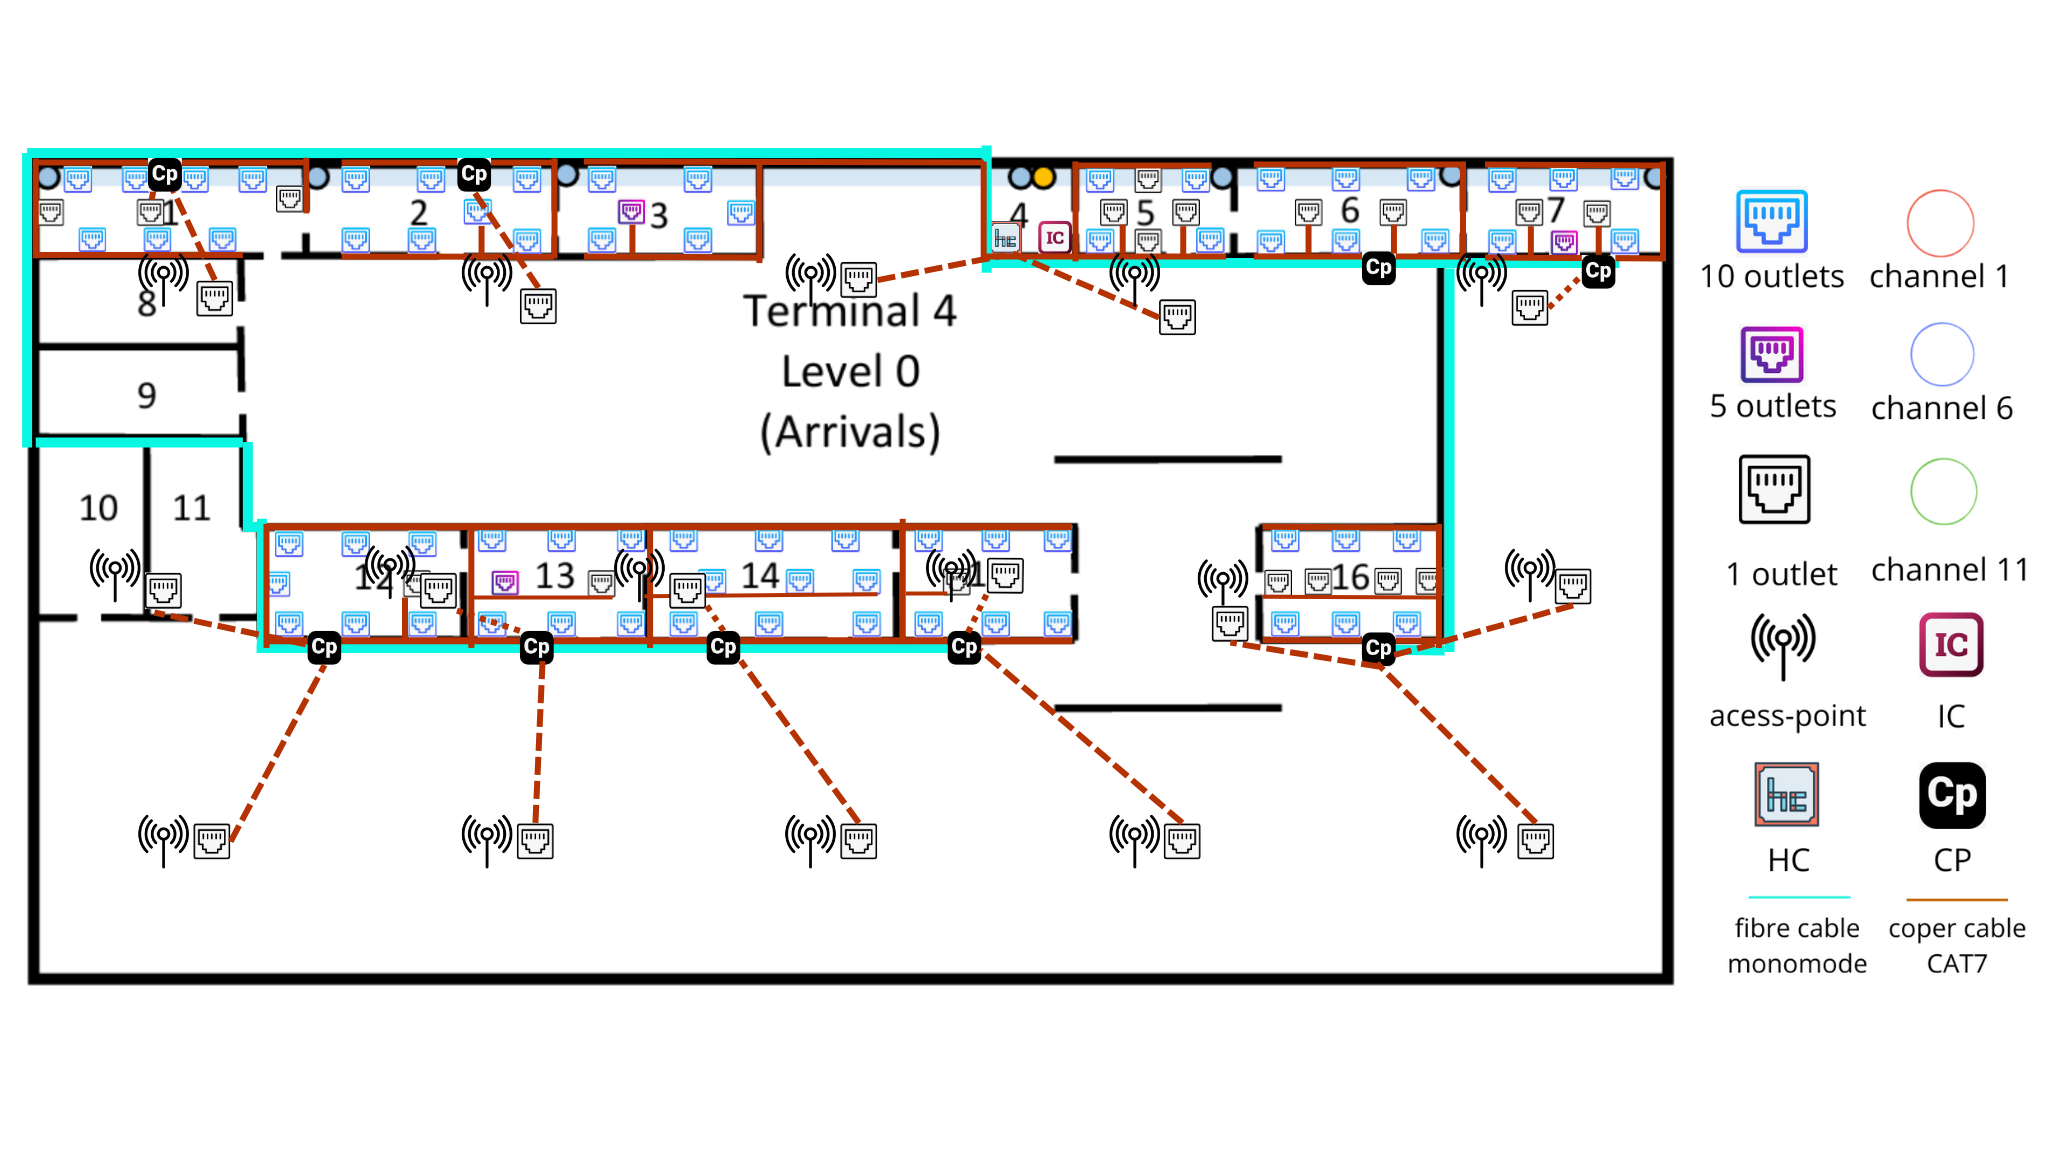
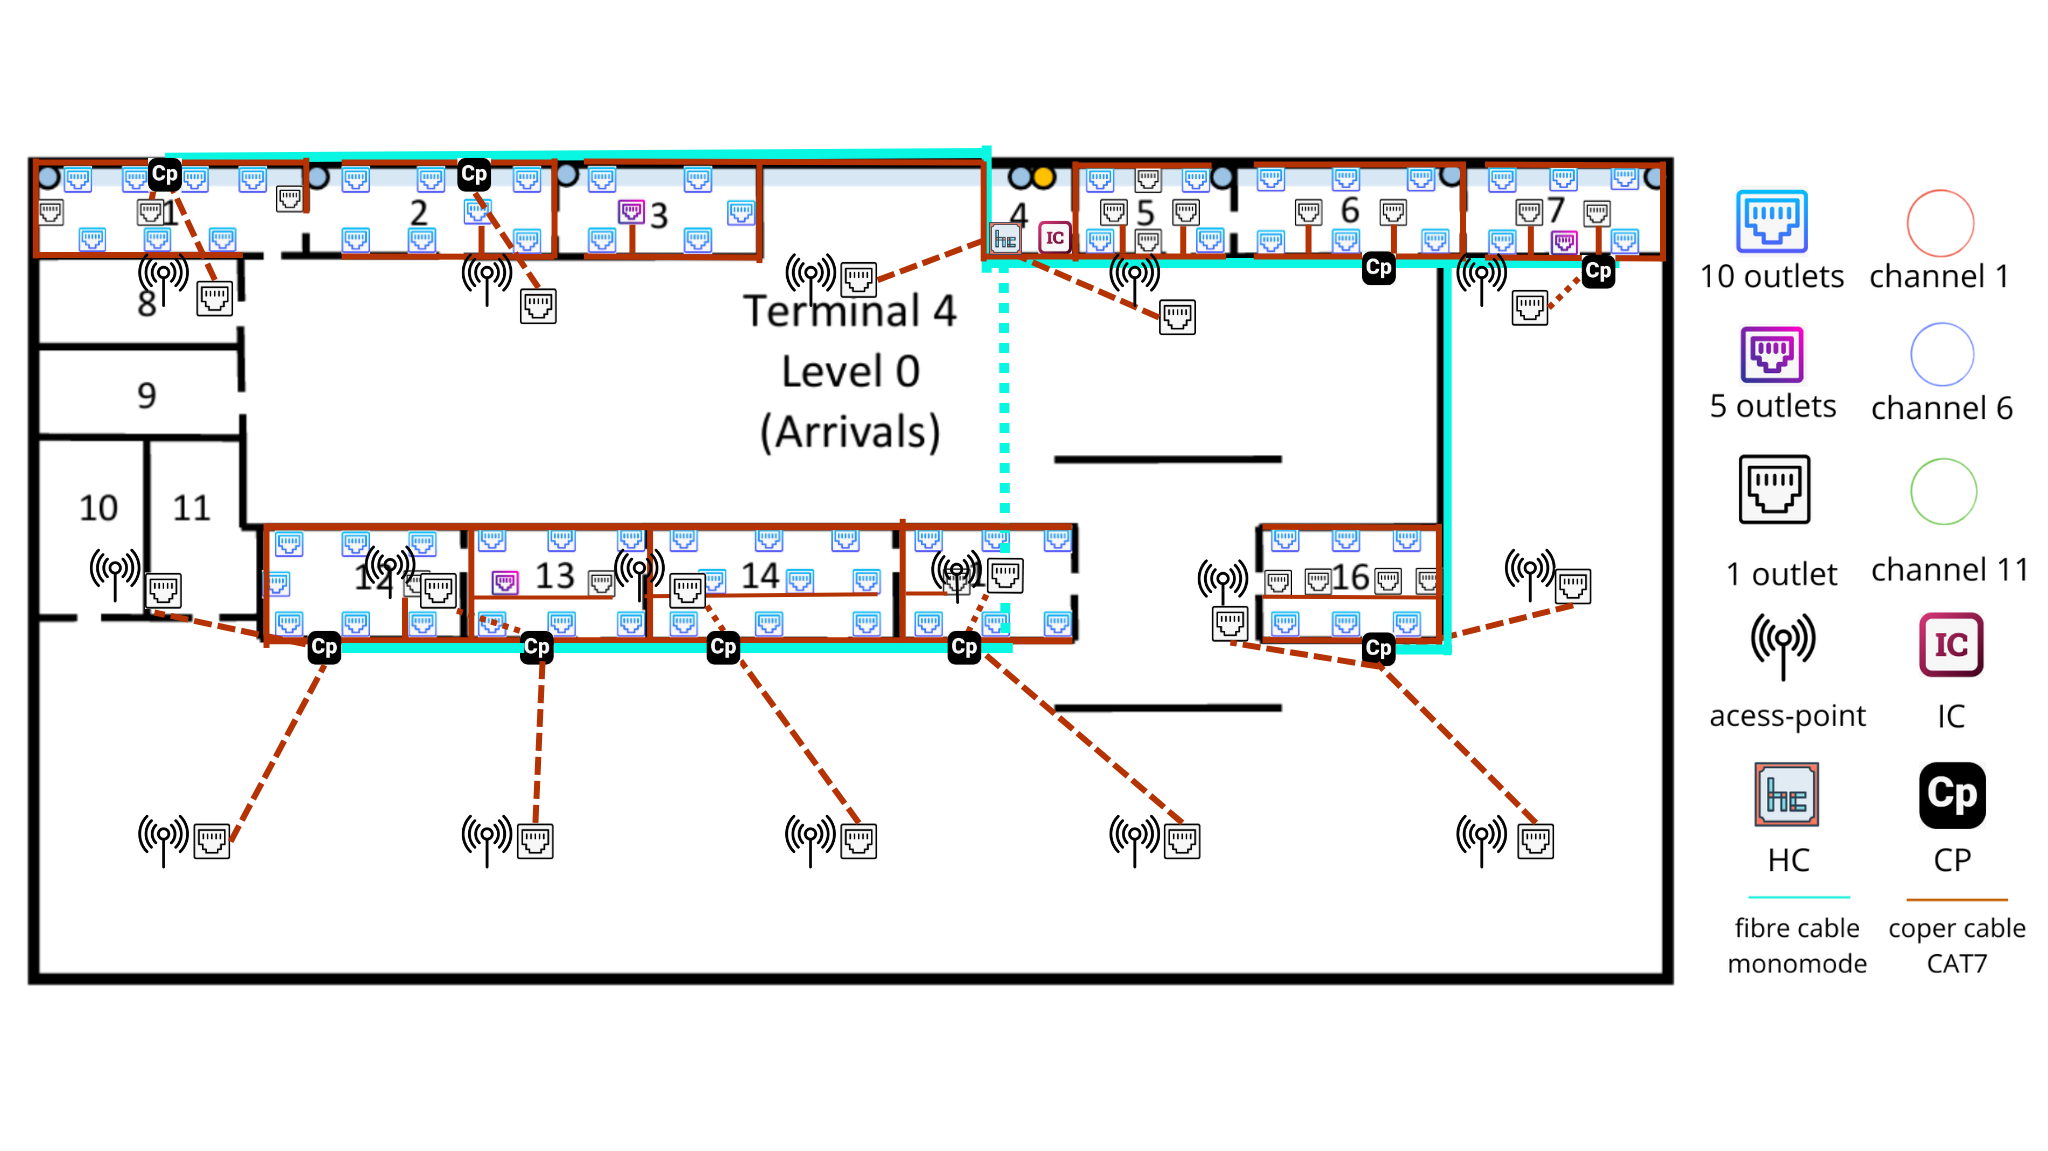
Update T1.4: updated cable connections and inventory

diff --git a/doc/sprint1/1240895/README.md b/doc/sprint1/1240895/README.md
@@ -53,6 +53,8 @@ Fórmula utilizada: Outlets = $\lceil \frac{\text{Área (m²)}}{10} \times 2 \rc
 
 ![Medidas do Level 0 - Arrivals](level0_arrivals/medidas_level0.png)
 
+- NOTA: As medidas na imagem estão em metros (m)
+
 
 | Sala | Medidas (cm)        | Dimensões Reais (m)      | Área (m²) | Outlets | Notas                  |
 | ---- | ------------------- | ------------------------- | ----------- | ------- | ---------------------- |
@@ -79,6 +81,7 @@ Fórmula utilizada: Outlets = $\lceil \frac{\text{Área (m²)}}{10} \times 2 \rc
 
 ![Medidas do Level 2 - Departures](level2_departures/medidas_level2.png)
 
+- NOTA: As medidas na imagem estão em metros (m)
 
 | Sala | Medidas (cm)        | Dimensões Reais (m)      | Área (m²) | Outlets | Notas               |
 | ---- | ------------------- | ------------------------- | ----------- | ------- | ------------------- |
@@ -104,11 +107,10 @@ Fórmula utilizada: Outlets = $\lceil \frac{\text{Área (m²)}}{10} \times 2 \rc
 | 20   | 1,35 x 0,7          | 21,77 x 11,29             | 245,80      | 50      |                     |
 | 21   | 1,35 x 0,7          | 21,77 x 11,29             | 245,80      | 50      |                     |
 
-**Total Outlets Piso 2 (Salas): 807**
+**Total Outlets Piso 2 (Salas): 757**
 
 ---
 
----
 
 ## 4. Tomadas nas Paredes Exteriores (Level 2)
 
@@ -140,7 +142,7 @@ Outlets = $\left\lceil \frac{\text{Comprimento útil da parede}}{5} \right\rceil
 
 ## 5. Pontos de Acesso Wireless (Wi-Fi)
 
-Ambos os pisos do Terminal 2 requerem cobertura de rede sem fios.
+Ambos os pisos do Terminal 4 requerem cobertura de rede sem fios.
 
 Cada Wireless Access Point (WAP) garante uma cobertura circular aproximada com **50 metros de diâmetro (25 metros de raio)**.
 
@@ -186,17 +188,24 @@ N_real ≈ **16 WAPs por piso**
 
 ### Posicionamento no teto falso
 
-#### Level 1 - Arrivals
+#### Level 0 - Arrivals
 
 ![Access Points do level 0 - Arrivals](level0_arrivals/level0_aps.png)
 
 **Nota**: Cada WAP requer uma **tomada de rede RJ45 (ISO 8877)** instalada no **teto falso**, localizado a 4 metros de altura.
 
-#### Level 4 - Departures
+#### Level 2 - Departures
 
 ![Access Points do level 2 - Departures](level2_departures/level2_aps.png)
 
 **Nota**: Cada WAP requer uma **tomada de rede RJ45 (ISO 8877)** instalada no **teto falso**, localizado a 4 metros de altura.
+
+### Atribuição de Canais Wi-Fi
+
+Na banda de 2,4 GHz do protocolo IEEE 802.11, existem apenas **três canais
+não sobrepostos: 1, 6 e 11**. Conforme abordado nas aulas laboratoriais (PL02),
+a utilização exclusiva destes três canais garante que células vizinhas não
+partilham frequências, eliminando interferências entre Access Points adjacentes.
 
 ---
 
@@ -239,7 +248,7 @@ Para alojar o IC, HC, equipamentos ativos (switches, UPS) e espaço de expansão
 
 ### Estratégia de Consolidation Points (CPs) – Level 0
 
-Devido às dimensões do piso (**aproximadamente 198 × 99 metros**) e à limitação de **90 metros de cabo horizontal em cobre**, foram implementados **Consolidation Points (CPs)** distribuídos pelo piso.
+Devido às dimensões do piso (**aproximadamente 200 × 100 metros**) e à limitação de **90 metros de cabo horizontal em cobre**, foram implementados **Consolidation Points (CPs)** distribuídos pelo piso.
 
 Os CPs permitem:
 - reduzir o número de cabos de cobre diretos ligados ao HC
@@ -329,9 +338,9 @@ Número de ligações: **73**
 | Patch Panel | Portas | Espaço |
 |---|---|---|
 | Patch Panel | 48 portas | 2U |
-| Patch Panel | 24 portas | 1U |
+| Patch Panel | 48 portas | 2U |
 
-Espaço total ocupado: **3U** → 4 × 3 = 12U → **rack de 12U**
+Espaço total ocupado: **4U** → 4 × 4 = 16U → **rack de 24U**
 
 ---
 
@@ -385,6 +394,7 @@ Número de ligações: **67**
 
 Espaço total ocupado: **3U** → 4 × 3 = 12U → **rack de 12U**
 
+---
 
 ### Level 2 – Departures
 
@@ -410,7 +420,7 @@ Espaço total ocupado: **1U** → 4 × 1 = 4U → **rack de 6U**
 
 ### Estratégia de Consolidation Points (CPs) – Level 2
 
-Devido às dimensões do piso (**aproximadamente 198 × 99 metros**) e à limitação de **90 metros de cabo horizontal em cobre**, foram implementados **Consolidation Points (CPs)** distribuídos estrategicamente pelo piso.
+Devido às dimensões do piso (**aproximadamente 200 × 100 metros**) e à limitação de **90 metros de cabo horizontal em cobre**, foram implementados **Consolidation Points (CPs)** distribuídos estrategicamente pelo piso.
 
 A ligação **HC → CP** é realizada por **fibra ótica OM4**. A ligação **CP → outlets** é realizada por **cabo de cobre CAT7** (máximo 90 metros).
 
@@ -696,12 +706,12 @@ Esta abordagem garante:
 
 ### Resumo Global de Racks – Terminal 4
 
-| Tamanho | Quantidade |
-|---------|-----------|
-| 6U  | 4 |
-| 12U | 14 |
-| 24U | 6 |
-| 42U | 1 |
+| Tamanho | Quantidade   |
+|---------|--------------|
+| 6U  | 4            |
+| 12U | 14           |
+| 24U | 6            |
+| 42U | 1            |
 | **Total** | **25 racks** |
 
 
@@ -732,10 +742,201 @@ Utilizada principalmente para alimentar:
 
 ## Nota Técnica
 
-Todas as ligações entre o **Intermediate Cross-Connect (IC)** localizado na **Sala 6** e os restantes **HCs e CPs remotos** são realizadas através de **fibra ótica monomodo**, constituindo o **backbone interno do edifício**.
+Todas as ligações entre o **Intermediate Cross-Connect (IC)** localizado na **Sala 4** e os CPs remotos são realizadas através de **fibra ótica monomodo**, constituindo o **backbone interno do edifício**.
 A distribuição final até às tomadas de utilizador é efetuada utilizando **cabos de cobre CAT7**, respeitando os limites de distância definidos pelas normas de cablagem estruturada.
 
 ---
 
+## 9. Inventário de Cabos e Equipamentos
 
+O inventário apresentado inclui todos os materiais necessários para a infraestrutura de cablagem estruturada do Terminal 4, abrangendo cablagem horizontal, backbone interno, terminações e armários de telecomunicações.
 
+---
+
+### 9.1. Cabo de Fibra Ótica OM4
+
+#### Backbone
+
+| Segmento | Comprimento |
+|----------|-------------|
+| HC – Sala 3 (L2) → IC – Sala 4 (L0) | 15 m |
+| **Subtotal backbone** | **15 m** |
+
+> **Nota:** A ligação entre o IC do Terminal 4 (Sala 4, Level 0) e o MC do campus é da responsabilidade da tarefa T.1.1 (Sprint Master). O IC do Terminal 4 está localizado na **Sala 4, Level 0**.
+
+#### HC → CPs – Level 0
+
+| Segmento | Comprimento |
+|----------|-------------|
+| HC → CP Sala 2 | 61,3 m |
+| HC → CP Sala 1 | 108,1 m |
+| HC → CP Sala 12 | 125,8 m |
+| HC → CP Sala 13 | 101,6 m |
+| HC → CP Sala 14 | 80,6 m |
+| HC → CP Sala 15 | 50,0 m |
+| HC → CP Sala 6 | 46,8 m |
+| HC → CP Sala 7 | 74,2 m |
+| HC → CP Sala 16 | 104,8 m |
+| **Subtotal HC→CPs L0** | **753,2 m** |
+
+#### HC → CPs – Level 2
+
+| Segmento | Comprimento |
+|----------|-------------|
+| HC → CP Sala 5 | 40,3 m |
+| HC → CP1 (Salas 7+9) | 75,8 m |
+| HC → CP2 (Sala 21) | 116,1 m |
+| HC → CP Parede Direita | 117,7 m |
+| HC → CP Parede Inferior 1 | 145,2 m |
+| HC → CP Sala 2 | 74,2 m |
+| HC → CP Sala 1 | 112,9 m |
+| HC → CP1 (Salas 12+13) | 96,8 m |
+| HC → CP2 (Salas 14+15) | 61,3 m |
+| HC → CP3 (Salas 16+20) | 32,3 m |
+| HC → CP4 (Sala 17) | 121,0 m |
+| HC → CP5 (Sala 18) | 104,8 m |
+| HC → CP6 (Sala 19) | 64,5 m |
+| HC → CP Parede Inferior 2 | 169,4 m |
+| **Subtotal HC→CPs L2** | **1.332,3 m** |
+
+| | **TOTAL Fibra OM4** | **2.100,5 m** |
+|---|---|---|
+
+---
+
+### 9.2. Cabo de Cobre CAT7 U/UTP LSZH
+
+O comprimento total de cabo por sala foi estimado com base na distância mínima e máxima medida na planta entre o CP e as tomadas dessa sala, aplicando a seguinte fórmula:
+
+$$\bar{d} = \frac{d_{min} + d_{max}}{2} \qquad \Rightarrow \qquad L_{total} = \bar{d} \times n_{outlets}$$
+
+> **Nota sobre os Access Points:** Para os APs não foi aplicada esta fórmula de estimativa, uma vez que cada AP tem uma localização fixa e específica no teto falso. O comprimento de cada cabo foi medido individualmente na planta desde o CP até à tomada do respetivo AP.
+
+#### Level 0 – Arrivals
+
+| Sala | Dist. mín. | Dist. máx. | Média | Outlets | Total |
+|------|-----------|-----------|-------|---------|-------|
+| Sala 1  | 3,2 m  | 48,4 m | 25,8 m | 74  | 1.909 m |
+| Sala 2  | 3,2 m  | 40,3 m | 21,8 m | 71  | 1.548 m |
+| Sala 3 *(direto HC)* | 40,3 m | 64,5 m | 52,4 m | 55 | 2.882 m |
+| Sala 5 *(direto HC)* | 11,3 m | 32,3 m | 21,8 m | 44 | 959 m |
+| Sala 6  | 3,2 m  | 40,3 m | 21,8 m | 62  | 1.352 m |
+| Sala 7  | 1,6 m  | 35,5 m | 18,5 m | 58  | 1.073 m |
+| Sala 12 | 3,2 m  | 43,5 m | 23,4 m | 73  | 1.708 m |
+| Sala 13 | 1,6 m  | 37,1 m | 19,4 m | 68  | 1.319 m |
+| Sala 14 | 3,2 m  | 45,2 m | 24,2 m | 91  | 2.202 m |
+| Sala 15 | 3,2 m  | 40,3 m | 21,8 m | 63  | 1.373 m |
+| Sala 16 | 3,2 m  | 40,3 m | 21,8 m | 67  | 1.461 m |
+| APs L0  | — | — | — | 16 | 287 m |
+| **Subtotal L0** | | | | **729** | **18.073 m** |
+
+#### Level 2 – Departures
+
+| Sala | Dist. mín. | Dist. máx. | Média | Outlets | Total |
+|------|-----------|-----------|-------|---------|-------|
+| Sala 1  | 2,4 m  | 48,4 m | 25,4 m | 74  | 1.880 m |
+| Sala 2  | 2,4 m  | 48,4 m | 25,4 m | 71  | 1.803 m |
+| Sala 4 *(direto HC)* | 1,6 m | 19,4 m | 10,5 m | 44 | 462 m |
+| Sala 5  | 2,4 m  | 40,3 m | 21,4 m | 55  | 1.177 m |
+| Sala 7  | 1,6 m  | 25,8 m | 13,7 m | 37  | 507 m |
+| Sala 9  | 1,6 m  | 25,8 m | 13,7 m | 37  | 507 m |
+| Sala 12 | 2,4 m  | 27,4 m | 14,9 m | 40  | 596 m |
+| Sala 13 | 2,4 m  | 24,2 m | 13,3 m | 27  | 359 m |
+| Sala 14 | 2,4 m  | 25,8 m | 14,1 m | 32  | 451 m |
+| Sala 15 | 2,4 m  | 25,8 m | 14,1 m | 32  | 451 m |
+| Sala 16 | 2,4 m  | 27,4 m | 14,9 m | 34  | 507 m |
+| Sala 17 | 2,4 m  | 48,4 m | 25,4 m | 55  | 1.397 m |
+| Sala 18 | 2,4 m  | 40,3 m | 21,4 m | 51  | 1.091 m |
+| Sala 19 | 3,2 m  | 37,1 m | 20,2 m | 70  | 1.414 m |
+| Sala 20 | 3,2 m  | 30,6 m | 16,9 m | 50  | 845 m |
+| Sala 21 | 2,4 m  | 37,1 m | 19,8 m | 51  | 1.010 m |
+| APs L2  | — | — | — | 16 | 263 m |
+| Parede Direita | 2,4 m | 56,5 m | 29,4 m | 21 | 617 m |
+| Parede Inf. CP1 | 8,1 m | 62,9 m | 35,5 m | 20 | 710 m |
+| Parede Inf. CP2 | 8,1 m | 66,1 m | 37,1 m | 20 | 742 m |
+| **Subtotal L2** | | | | **887** | **16.789 m** |
+
+| | **TOTAL Cobre CAT7** | **34.862 m** |
+|---|---|---|
+
+---
+
+### 9.3. Tomadas de Rede
+
+| Piso | Tomadas salas | Tomadas APs | Tomadas paredes ext. | Total |
+|------|--------------|-------------|----------------------|-------|
+| Level 0 | 713 | 16 | 0 | **729** |
+| Level 2 | 757 | 16 | 60 | **833** |
+| **Total** | **1.470** | **32** | **60** | **1.562** |
+
+---
+
+### 9.4. Conetividade e Terminação
+
+| Item | Especificação | Quantidade | Justificação |
+|------|--------------|------------|--------------|
+| Tomadas de rede | ISO 8877 (RJ45) CAT7, T568B | **1.562** | 713+757 salas + 32 APs + 60 paredes ext. |
+| Conetores de fibra | LC duplex (UPC) | **96** | 24 links × 2 extremidades × 2 fibras |
+| Patch cords cobre | CAT7 (0,5 m e 3 m) | **3.124** | 2 por cada outlet (rack + utilizador) |
+| Patch cords fibra | OM4 duplex | **48** | 2 por cada link de fibra (24 links) |
+
+---
+
+### 9.5. Patch Panels
+
+| Equipamento | Capacidade | Quantidade | Total de Portas |
+|-------------|-----------|------------|-----------------|
+| Patch Panel Cobre | 48 portas (2U) | **26**     | 1.248           |
+| Patch Panel Cobre | 24 portas (1U) | **17**     | 408             |
+| Patch Panel Fibra OM4 | 24 portas (1U) | **2**      | 48              |
+
+---
+
+### 9.6. Dimensionamento dos Armários (Racks de 19")
+
+Para dimensionar os armários de telecomunicações foi aplicada a regra:
+
+$$\text{Tamanho do Rack} = 4 \times S$$
+
+Onde **S** representa o espaço ocupado pelos patch panels passivos. Esta abordagem garante espaço para equipamentos ativos (switches), gestão de cabos e reserva de capacidade futura (~100%).
+
+| Localização | Espaço Painéis (S) | Cálculo (4 × S) | Rack Selecionado |
+|-------------|-------------------|-----------------|-----------------|
+| Sala 4 – L0 (IC + HC) | 1U (fibra OM4) | fixo (IC + HC + switches + UPS) | **42U** |
+| CPs alta densidade (salas 1, 12, 14 no L0; salas 1, 16+20, 7+9 no L2) | 4U | 4 × 4 = 16U | **24U** (6×) |
+| CPs média densidade (restantes salas) | 3U | 4 × 3 = 12U | **12U** (14×) |
+| HC – Sala 3 – L2 + CPs paredes exteriores | 1U | 4 × 1 = 4U | **6U** (4×) |
+
+**Resumo Global de Racks:**
+
+| Tamanho | Quantidade |
+|---------|-----------|
+| 6U  | 4 |
+| 12U | 14 |
+| 24U | 6 |
+| 42U | 1 |
+| **Total** | **25 racks** |
+
+---
+
+### 9.7. Resumo Global do Inventário – Terminal 4
+
+| Item | Especificação | Quantidade   |
+|------|--------------|--------------|
+| Tomadas de rede | Keystone CAT7 RJ45, T568B | **1.562**    |
+| Cabo cobre horizontal | CAT7 U/UTP LSZH | **34.862 m** |
+| Cabo fibra backbone (interno) | OM4 multimodo | **15 m**     |
+| Cabo fibra HC→CPs | OM4 multimodo | **2.086 m**  |
+| **Total fibra OM4** | | **2.101 m**  |
+| Patch panel cobre 48p (2U) | CAT7 | **26**       |
+| Patch panel cobre 24p (1U) | CAT7 | **17**       |
+| Patch panel fibra 24p (1U) | OM4 | **2**        |
+| Patch cords cobre | CAT7 | **3.124**    |
+| Patch cords fibra | OM4 duplex | **48**       |
+| Conetores fibra | LC duplex UPC | **96**       |
+| Rack 6U | | **4**        |
+| Rack 12U | | **14**       |
+| Rack 24U | | **6**        |
+| Rack 42U | | **1**        |
+| Access Points Wi-Fi | Wi-Fi 6 (802.11ax) | **32**       |
+| Consolidation Points (CP) | — | **25**       |
